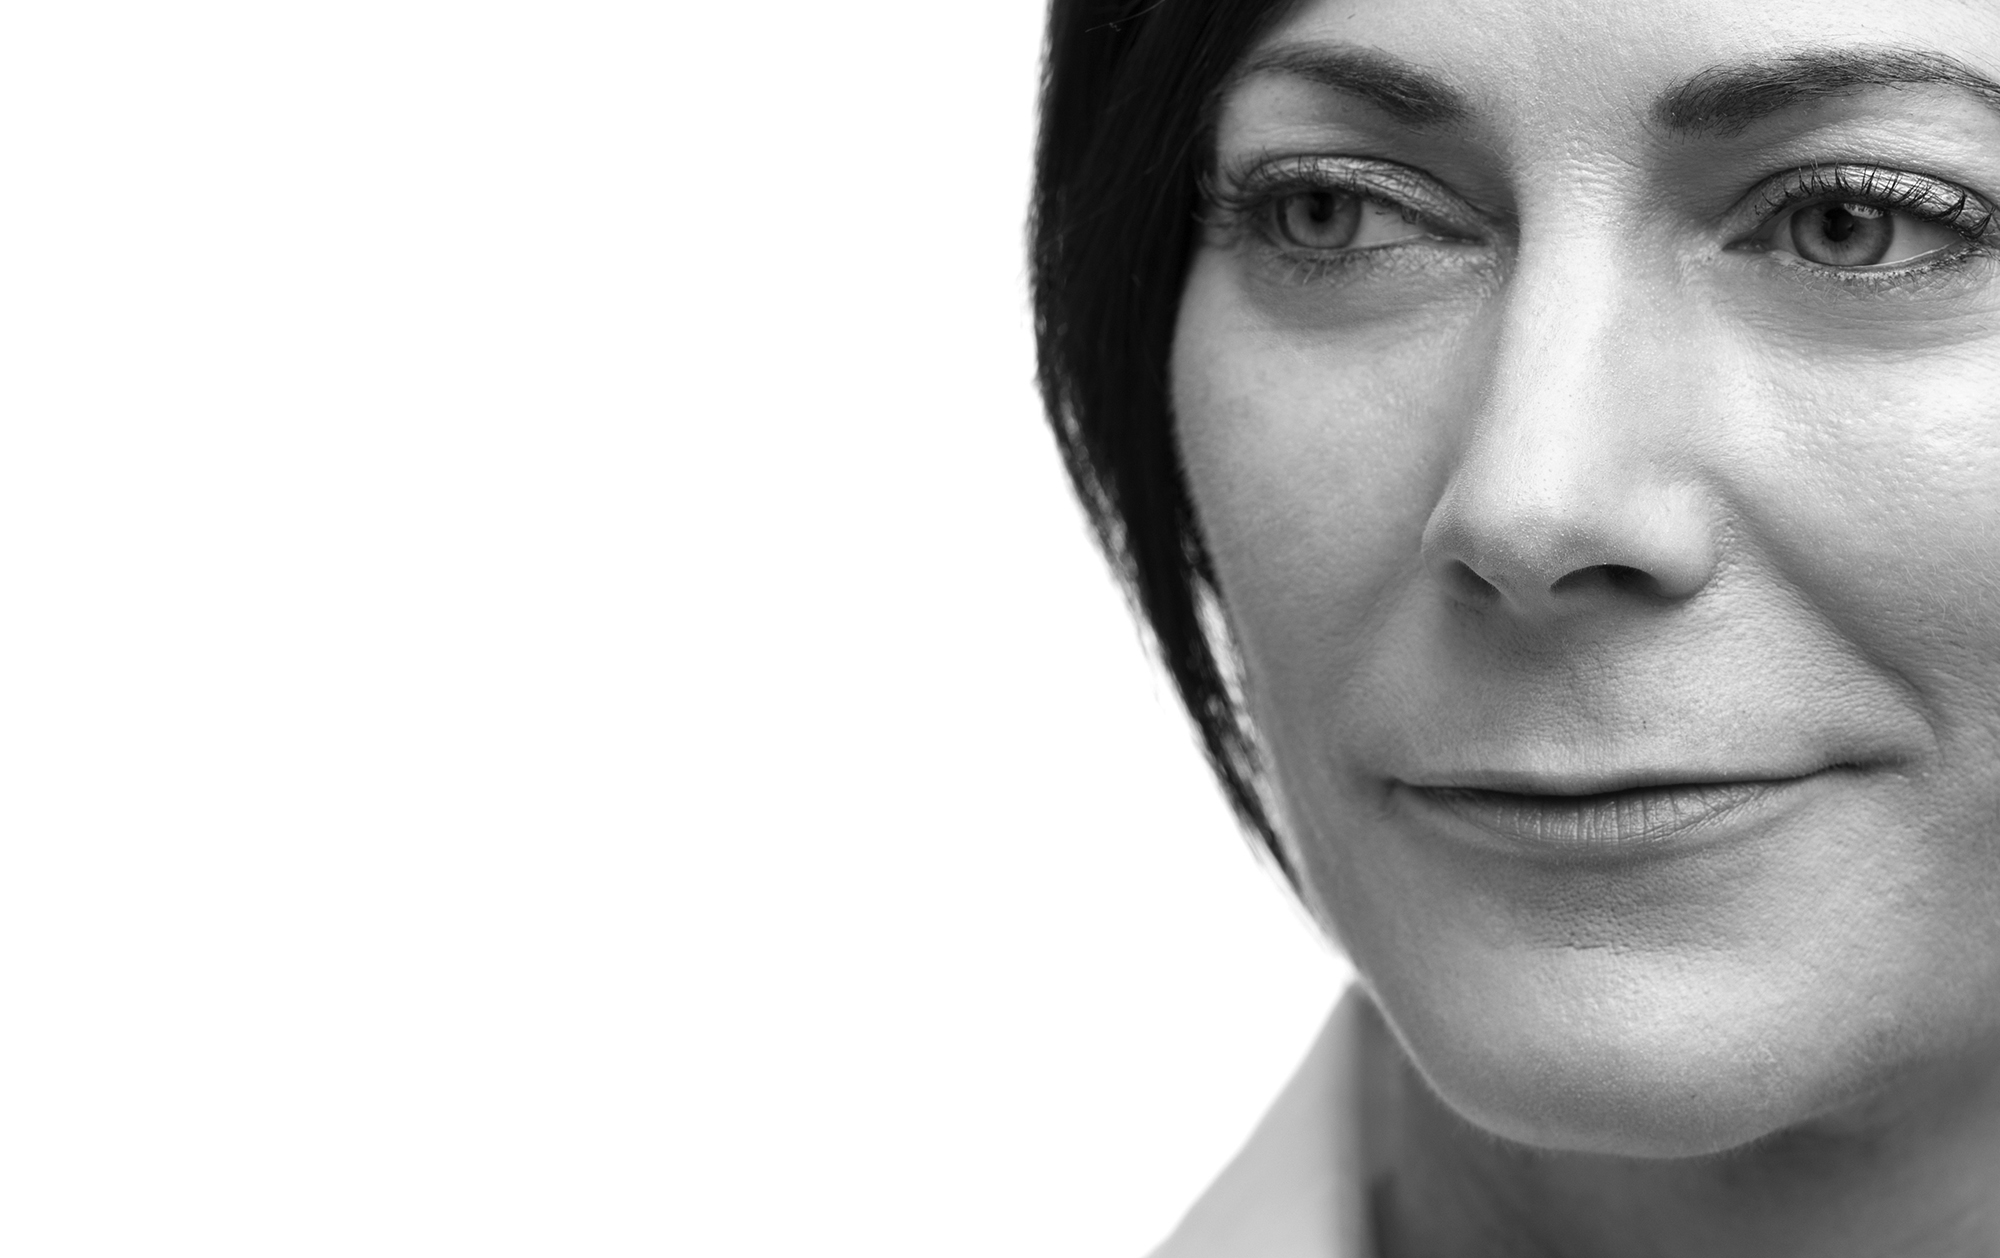
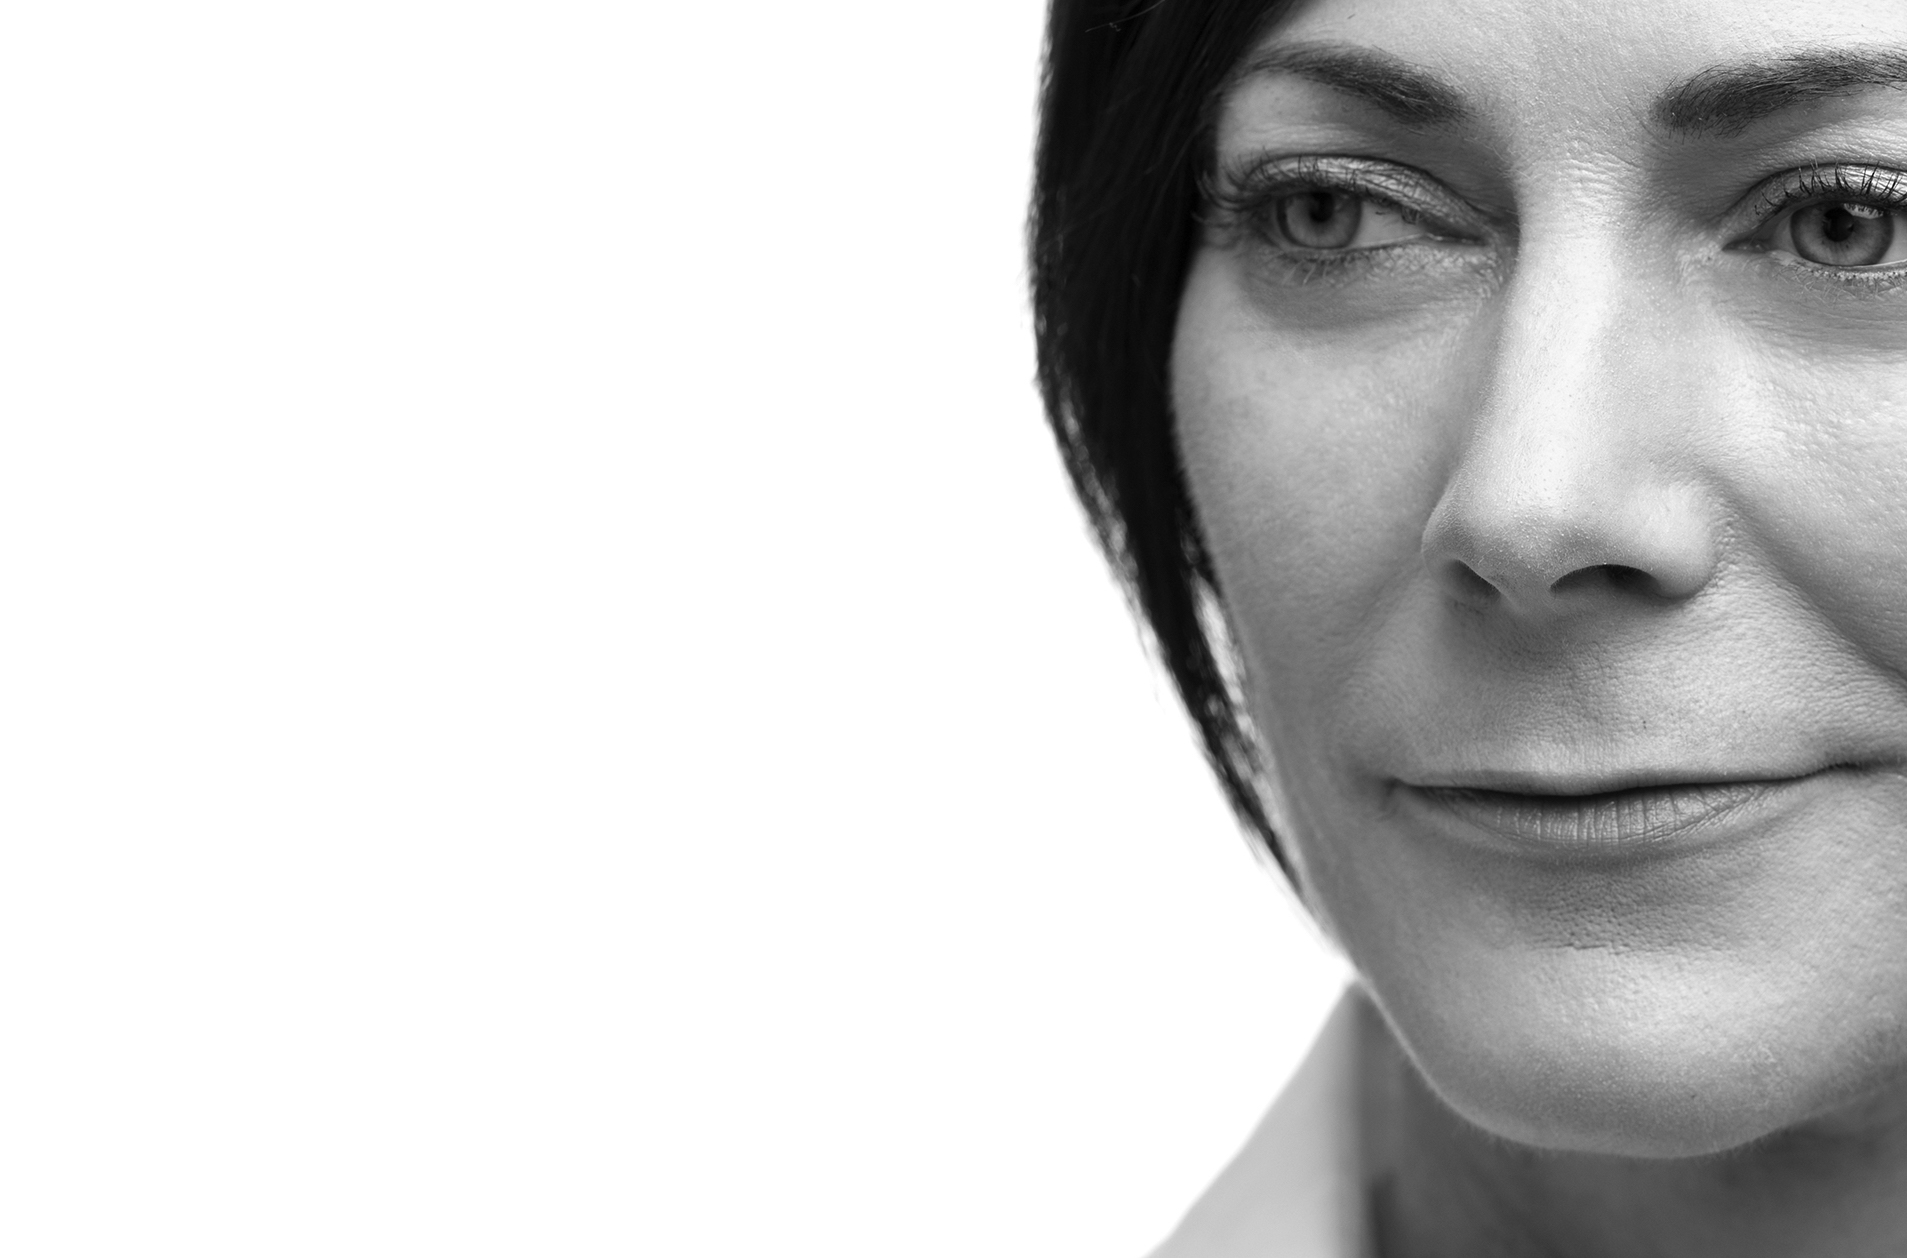
enable homepage animation!

Changed region(s): [[0.495, 0.0, 1.0, 1.0]]

diff --git a/src/css/sections/_home.interaction.scss b/src/css/sections/_home.interaction.scss
@@ -17,46 +17,45 @@
 
 
 
+/**
+ * each fade lasts 4 seconds, so each animation takes 8 seconds (fade in + fade out)
+ * 
+ */
 
-.ocean { 
-  /* height: 5%; */
-  width:100%;
-  position:absolute;
-  bottom:0;
-  left:0;
-  background: #015871;
+.humans {
+  img {
+    opacity: 0;
+    visibility: hidden;
+    animation: truth 88s ease-in-out 0s infinite;
+  }
+
+  img:nth-child(2) { animation-delay: 8s; }
+  img:nth-child(3) { animation-delay: 16s; }
+  img:nth-child(4) { animation-delay: 24s; }
+  img:nth-child(5) { animation-delay: 32s; }
+  img:nth-child(6) { animation-delay: 40s; }
+  img:nth-child(7) { animation-delay: 48s; }
+  img:nth-child(8) { animation-delay: 56s; }
+  img:nth-child(9) { animation-delay: 64s; }
+  img:nth-child(10) { animation-delay: 72s; }
+  img:nth-child(11) { animation-delay: 80s; }
 }
 
-.ex-wave {
-  background: url(http://tedmcdo.com/labs/wave.svg) repeat-x;  /* important to use background so you can repeat */
-  position: absolute;
-  top: -198px;
-  width: 6400px; /* just to make sure it's long enough */
-  height: 198px;
-  /* animation: wave 7s cubic-bezier( 0.36, 0.45, 0.63, 0.53) infinite; */
-  transform: translate3d(0, 0, 0);
-}
-
-/* .ex-wave:nth-of-type(2) {
-  top: -175px;
-  animation: wave 7s cubic-bezier( 0.36, 0.45, 0.63, 0.53) -.125s infinite, swell 7s ease -1.25s infinite;
-  opacity: 1;
-} */
-
-@keyframes wave {
+@keyframes truth {
   0% {
-    margin-left: 0;
+    opacity: 0;
+    visibility: visible;
   }
-  100% {
-    margin-left: -1600px; /* has to be the width of the shape */
+
+  4.5% {
+    opacity: 1;
+  }
+
+  9% {
+    opacity: 0;
+    visibility: hidden;
   }
 }
 
-/* @keyframes swell {
-  0%, 100% {
-    transform: translate3d(0,-25px,0);
-  }
-  50% {
-    transform: translate3d(0,5px,0);
-  }
-} */
+
+

diff --git a/site/layouts/index.html b/site/layouts/index.html
@@ -6,10 +6,18 @@
        >> YIELDMO IN TOP 10% OF FASTEST-GROWING TECH CO'S IN NORTH AMERICA - <i>DELOITTE</i></a>
      </div>
 
-    <div class="humans">
-      <img class="tokponwey" src='{{ "_images/portraits/a_tokponwey.jpg" | absURL }}'>
-      <!-- <img class="rachel" src='{{ "_shoots/_Rachel_Oremland_01131.jpg" | absURL }}'> -->
-      <!-- <img class="rene" src='{{ "_shoots/_Rene_01371.jpg" | absURL }}'> -->
+    <div id="humans" class="humans">
+      <img src='{{ "_images/portraits/a_tokponwey.jpg" | absURL }}'>
+      <img src='{{ "_images/portraits/ashely.jpg" | absURL }}'>
+      <img src='{{ "_images/portraits/c_strong.jpg" | absURL }}'>
+      <img src='{{ "_images/portraits/daniel.jpg" | absURL }}'>
+      <img src='{{ "_images/portraits/freddie.jpg" | absURL }}'>
+      <img src='{{ "_images/portraits/julia.jpg" | absURL }}'>
+      <img src='{{ "_images/portraits/kelvin.jpg" | absURL }}'>
+      <img src='{{ "_images/portraits/logan.jpg" | absURL }}'>
+      <img src='{{ "_images/portraits/rachel.jpg" | absURL }}'>
+      <img src='{{ "_images/portraits/rene.jpg" | absURL }}'>
+      <img src='{{ "_images/portraits/sydney.jpg" | absURL }}'>
     </div>
 
     <div class="main-message">

diff --git a/src/css/sections/_home.core.scss b/src/css/sections/_home.core.scss
@@ -34,8 +34,7 @@
 
     img { 
       position: absolute;
-      max-height: 100%;
-      max-width: 100%;
+      height: 100%;
       bottom: 0;
       right: 0;
     }
@@ -91,13 +90,13 @@
     .main-content {
       position: absolute;
       width: 100%;
-      top: 3rem;
+      top: 4rem;
       bottom: 0;
       z-index: 999;
 
       .headlines {
         position: absolute;
-        top: 2rem;
+        top: 0;
         left: 0;
         right: 0;
         color: $ocean-deep;
@@ -124,7 +123,7 @@
     .visual-pattern { 
       position: absolute;
       width: 100%;
-      height: 50vh;
+      height: calc(50vh - 2rem);
       bottom: 0;
       left: 0;
 

diff --git a/site/layouts/company/leadership.html b/site/layouts/company/leadership.html
@@ -46,7 +46,7 @@
         <h6>Angie More</h6>
         <p>VP, National Sales</p>
       </a> 
-      <a data-anchor="ebag" class="namecard">
+      <a data-anchor="sebag" class="namecard">
         <h6>David Sebag</h6>
         <p>VP of Product, New Ad Formats</p>
       </a> 

diff --git a/src/css/sections/_home.responsive.scss b/src/css/sections/_home.responsive.scss
@@ -87,11 +87,6 @@ body {
       left: auto;
       right: 0;
       top: 0;
-
-      img {
-        height: 100%;
-        max-width: none;
-      }
     }
 
     .main-message {
